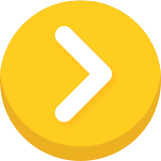
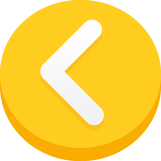
Added pressed button assets for music, and back buttons.

diff --git a/core/src/mx/itesm/sheep/SettingsScreen.java b/core/src/mx/itesm/sheep/SettingsScreen.java
@@ -1,6 +1,7 @@
 package mx.itesm.sheep;
 
 import com.badlogic.gdx.Gdx;
+import com.badlogic.gdx.Preferences;
 import com.badlogic.gdx.graphics.Texture;
 import com.badlogic.gdx.graphics.g2d.TextureRegion;
 
@@ -24,6 +25,11 @@ public class SettingsScreen extends MainScreen {
     private Texture fxButton;
     private Texture bg;
     private Texture backButton;
+    private Texture pressedMusicButton;
+    private Texture pressedBackButton;
+    private Preferences prefs;
+    private Texture noMusicButton;
+
 
     public SettingsScreen(Juego juego){
         this.juego = juego;
@@ -39,12 +45,20 @@ public class SettingsScreen extends MainScreen {
         bg = new Texture("sBg.png");
         musicButton = new Texture("music.png");
         fxButton  =  new Texture("fx.png");
-        backButton = new Texture("backButtonr.png");
+        backButton = new Texture("backButton.png");
+        pressedMusicButton = new Texture("pressedMusicButton.png");
+        pressedBackButton = new Texture("pressedBackButton.png");
+        noMusicButton = new Texture("noMusicButton.png");
     }
 
     private void crearEscenaSettings(){
 
         escenaSettings = new Stage(vista);
+
+        prefs = Gdx.app.getPreferences("My Preferences");
+
+
+
 
         TextureRegionDrawable trdBg =  new
                 TextureRegionDrawable(new TextureRegion(bg));
@@ -54,25 +68,45 @@ public class SettingsScreen extends MainScreen {
 
 
 
+    // Music button ---------------------------------------------------
         TextureRegionDrawable trdMusic = new
                 TextureRegionDrawable(new TextureRegion(musicButton));
-        final ImageButton btnMusic = new ImageButton(trdMusic);
+        TextureRegionDrawable trdMusicpr = new
+                TextureRegionDrawable(new TextureRegion(pressedMusicButton));
+        final ImageButton btnMusic = new ImageButton(trdMusic, trdMusicpr);
         btnMusic.setPosition(374,631);
         escenaSettings.addActor(btnMusic);
+        final TextureRegionDrawable trdNoMusic = new
+                TextureRegionDrawable(new TextureRegion(noMusicButton));
+
+        btnMusic.addListener( new ClickListener() {
+            @Override
+            public void clicked(InputEvent event, float x, float y) {
+                super.clicked(event, x, y);
+                prefs.putBoolean("musicOn",true);
+                Boolean name = prefs.getBoolean("musicOn");
+            }
+        } );
+
+
+    //-----------------------------------------------------------------
+
+    // FX button ------------------------------------------------------
 
         TextureRegionDrawable trdFx = new
                 TextureRegionDrawable(new TextureRegion(fxButton));
         final ImageButton btnFx = new ImageButton(trdFx);
         btnFx.setPosition(374,1167);
         escenaSettings.addActor(btnFx);
+    //-----------------------------------------------------------------
 
 
 
-
-        /****Boton de regreso****/
         TextureRegionDrawable trdBack = new
                 TextureRegionDrawable(new TextureRegion(backButton));
-        final ImageButton btnBack = new ImageButton(trdBack);
+        TextureRegionDrawable trdBackpr = new
+                TextureRegionDrawable(new TextureRegion(pressedBackButton));
+        final ImageButton btnBack = new ImageButton(trdBack, trdBackpr);
         btnBack.setPosition(461,120);
         escenaSettings.addActor(btnBack);
 

diff --git a/core/src/mx/itesm/sheep/aboutScreen.java b/core/src/mx/itesm/sheep/aboutScreen.java
@@ -20,7 +20,7 @@ class aboutScreen extends MainScreen {
     private Texture bgMenu;
     private Texture backButton;
     private Stage escenaAyuda;
-    private Texture n;
+    private Texture pressedBackButton;
 
     public aboutScreen(Juego juego) {
         this.juego = juego;
@@ -48,11 +48,13 @@ class aboutScreen extends MainScreen {
         // Botón regresar
         TextureRegionDrawable trdBack = new
                 TextureRegionDrawable(new TextureRegion(backButton));
-        final ImageButton btnBack = new ImageButton(trdBack);
+        TextureRegionDrawable trdBackpr = new
+                TextureRegionDrawable(new TextureRegion(pressedBackButton));
+        final ImageButton btnBack = new ImageButton(trdBack, trdBackpr);
         btnBack.setPosition(461,120);
         escenaAyuda.addActor(btnBack);
 
-        //Listener botón
+
         btnBack.addListener( new ClickListener() {
             @Override
             public void clicked(InputEvent event, float x, float y) {
@@ -65,8 +67,8 @@ class aboutScreen extends MainScreen {
 
     private void cargarTexturas() {
         bgMenu = new Texture("aSBg.png");
-        backButton = new Texture("backButtonr.png");
-
+        backButton = new Texture("backButton.png");
+        pressedBackButton = new Texture("pressedBackButton.png");
     }
 
     @Override
